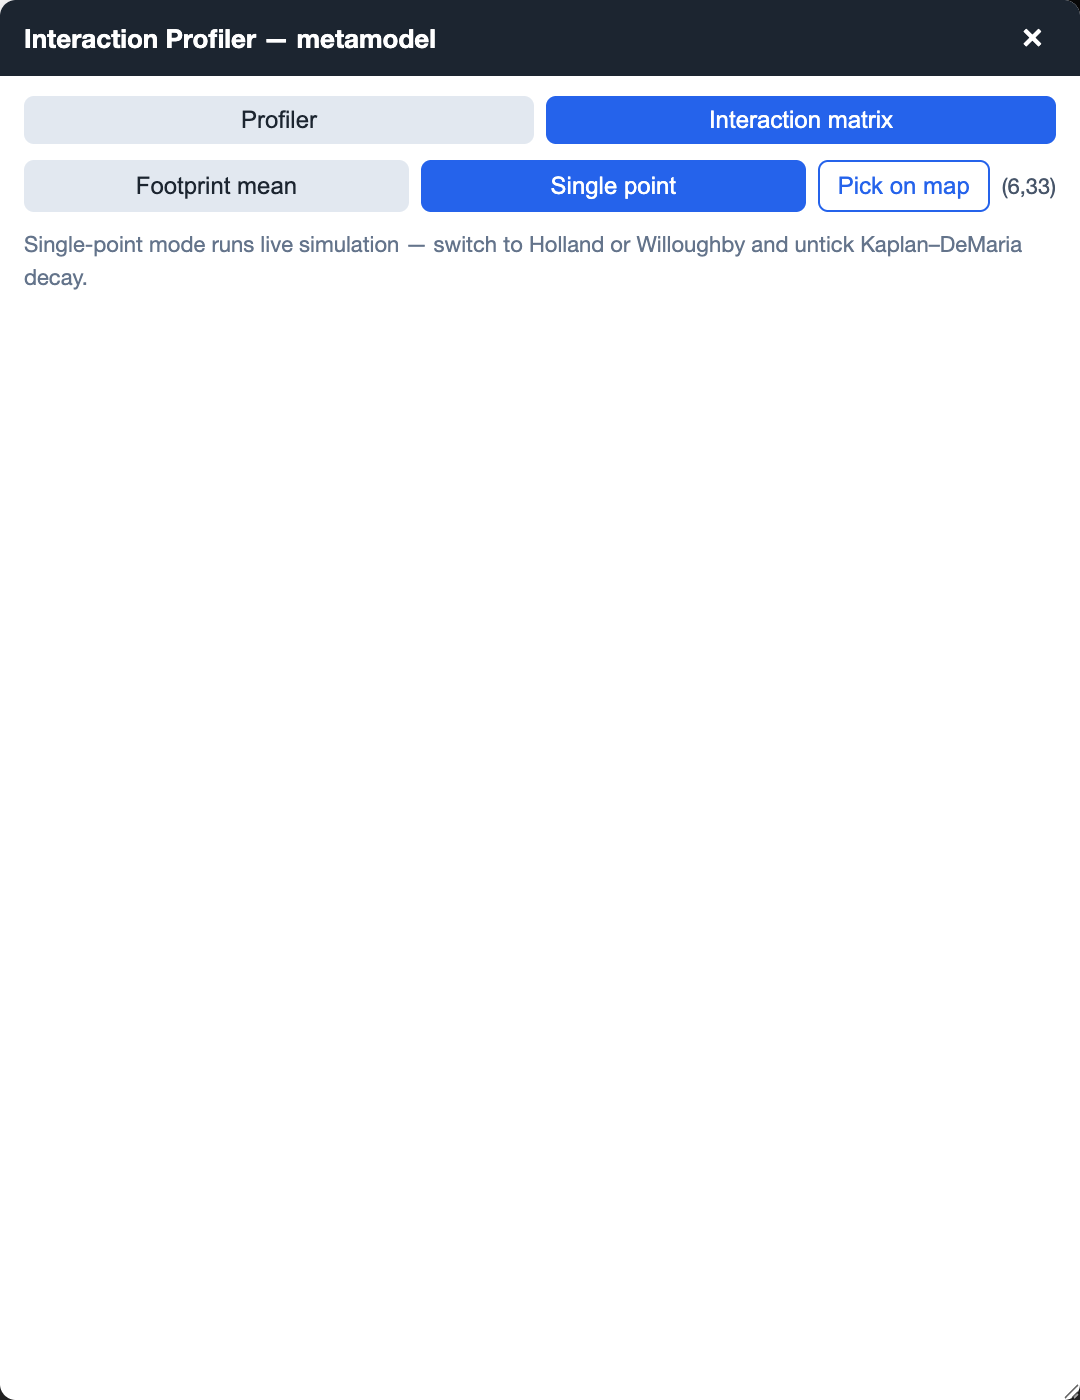
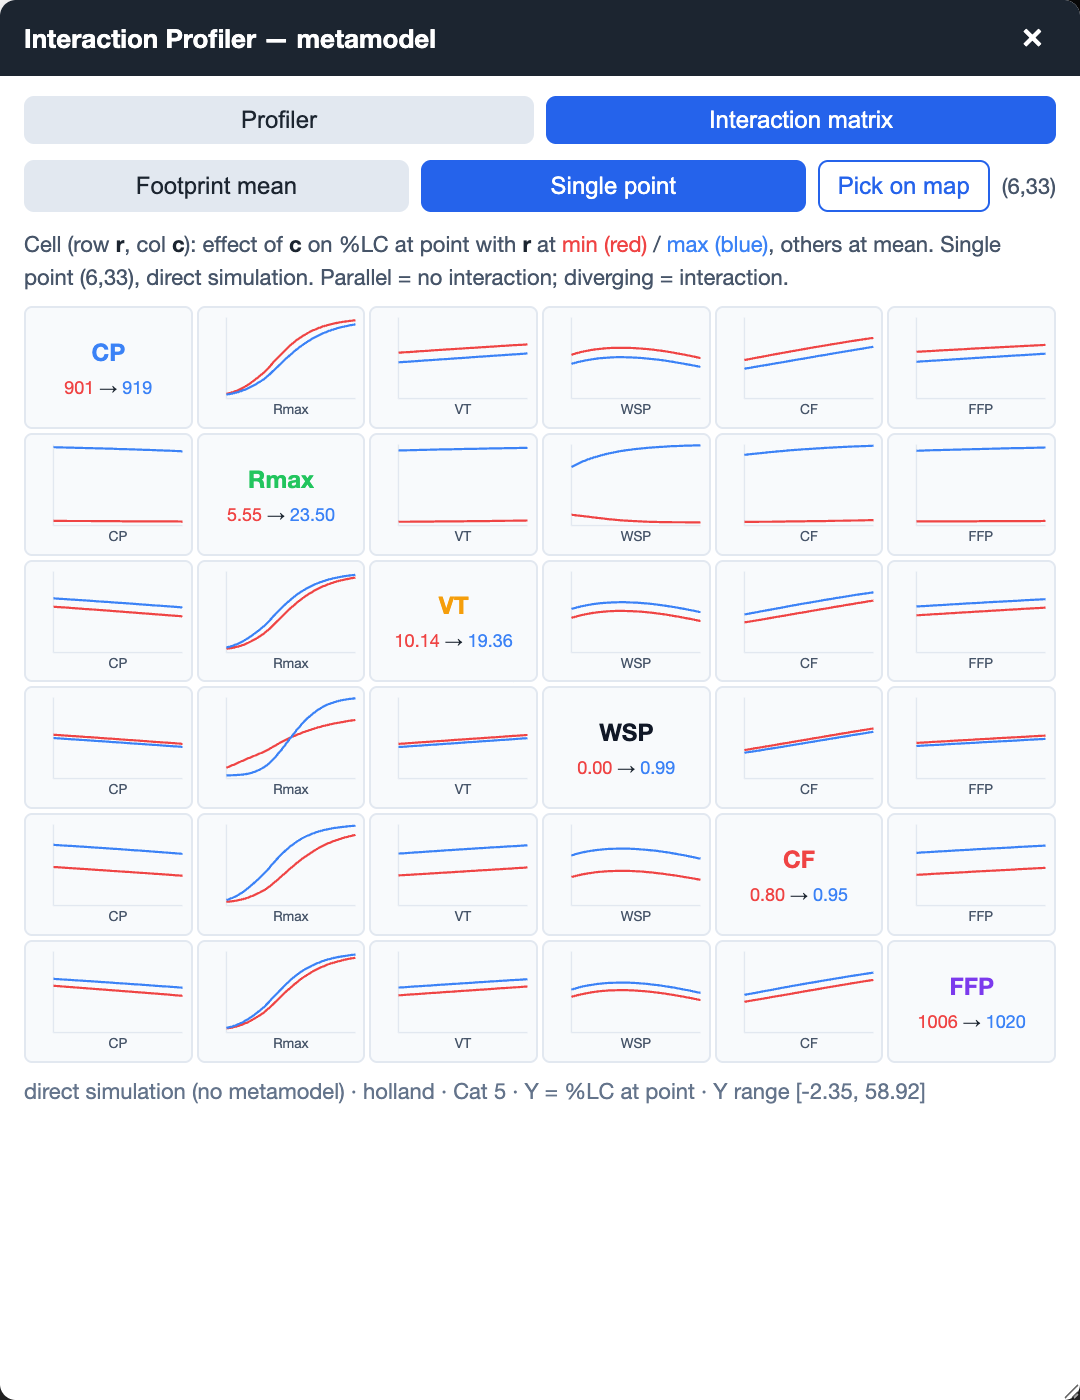
docs: fix blank single-point interaction matrix figure (Fig 10)
The single-point profiler is unavailable while Kaplan-DeMaria decay is on, which
is now the default, so the capture produced an empty matrix. Untick landDecay in
that figure's setup before picking the point and rebuild the PDF.

diff --git a/docs/capture_figures.py b/docs/capture_figures.py
@@ -48,6 +48,9 @@ FIGURES = [
     ("analysis_matrix_point", {"model": "powell", "category": "5", "_btn": "btnProf",
                         "_js": "document.getElementById('model').value='holland';"
                                "document.getElementById('model').dispatchEvent(new Event('change'));"
+                               # single-point live sim is unavailable while K&D decay is on
+                               "document.getElementById('landDecay').checked=false;"
+                               "document.getElementById('landDecay').dispatchEvent(new Event('change'));"
                                "document.getElementById('response').value='tlc';"
                                "document.getElementById('response').dispatchEvent(new Event('change'));"
                                "profilerState.scale='point';profilerState.view='matrix';"